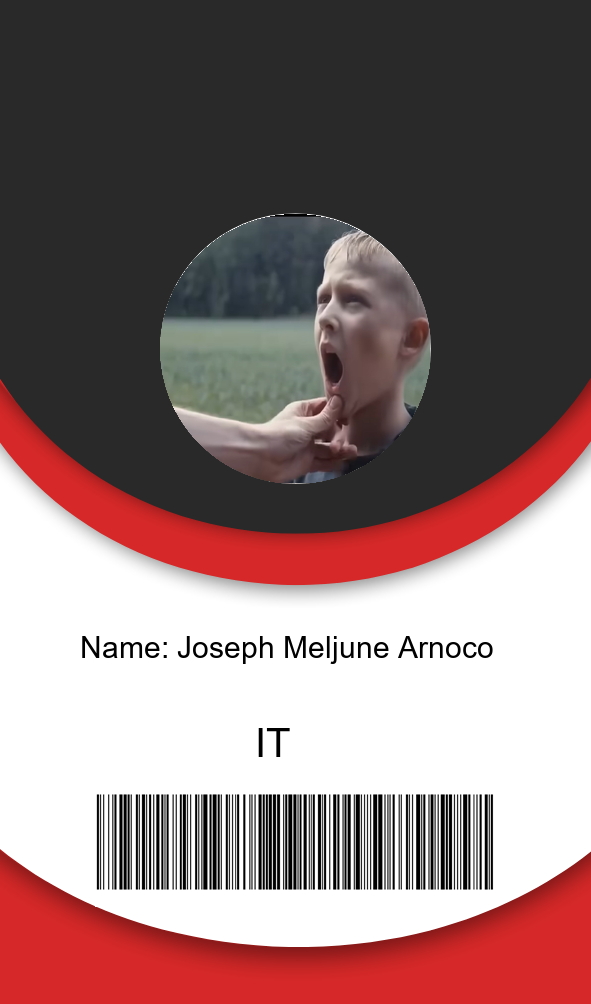
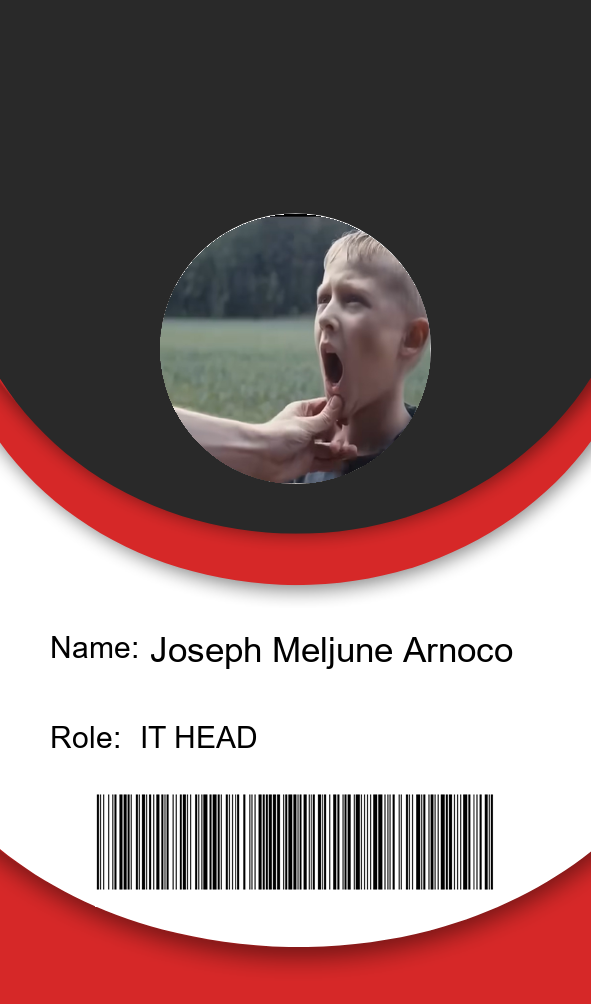
id gen

Changed region(s): [[0.0914, 0.6175, 0.8528, 0.6793], [0.2437, 0.7102, 0.4873, 0.7719], [0.0914, 0.7102, 0.1827, 0.741]]

diff --git a/Server/generateEmployeeID.py b/Server/generateEmployeeID.py
@@ -122,30 +122,29 @@ class EmployeeIDCard(BaseModel):
             except Exception as e:
                 print(f"Error loading photo: {e}")
 
-        if len(name) > 10:
-            name_font = ImageFont.truetype(font_path, size=30)
-            # name = textwrap.fill(name, width=30)
-            x_text = 80
-        else:
-            x_text = 50
-            name_font = ImageFont.truetype(font_path, size=40)
+        draw.text((50, 630), f"Name:", fill="black", font=ImageFont.truetype(font_path, size=30))
+
+        name_font = ImageFont.truetype(font_path, size=35)
+        # name = textwrap.fill(name, width=30)
+        x_text = 140
 
         name_lines = textwrap.wrap(name, width=35)
         y_text = 630
+
         for line in name_lines:
-            draw.text((x_text, y_text), f"Name: {line}", fill="black", font=name_font)
+            draw.text((x_text, y_text), f" {line}", fill="black", font=name_font)
             y_text += name_font.size + 5
 
-        if len(type_of_employee) > 3:
-            x_text = 210
-        else:
-            x_text = 255
+
+        draw.text((50, 720), f"Role:", fill="black", font=ImageFont.truetype(font_path, size=30))
+
+        role_font = ImageFont.truetype(font_path, size=30)
+        x_text = 140
 
         type_of_employee_lines = textwrap.wrap(type_of_employee, width=35)
         y_text = 720
         for line in type_of_employee_lines:
             draw.text((x_text, y_text), line, fill="black", font=role_font)
-            y_text += role_font.size + 5
         # draw.text((255, 620), f"{type_of_employee}", fill="black", font=role_font)
 
         # ref_id_font = ImageFont.truetype(font_path, size=25)
@@ -171,6 +170,8 @@ class EmployeeIDCard(BaseModel):
         #     (170, 170))
         # background.paste(qr_code_img, (215, 680))
 
+        draw.text((130, 955), f"Property of Pustanan Printers. ©", fill="white", font=ImageFont.truetype(font_path, size=25))
+
         barcode = Code128(ref_id, writer=ImageWriter())
         options = {
             'module_width': 0.5,
@@ -182,9 +183,9 @@ class EmployeeIDCard(BaseModel):
             'foreground': 'black',
             'write_text': False
         }
-        barcode.save("Server/IDBarcodes/"+f"{name}", options=options)
+        barcode.save("Server/IDBarcodes/"+f"{name}")
         barcode_img = Image.open(f"Server/IDBarcodes/{name}.png").resize((400, 130))
-        background.paste(barcode_img, (95, 777))
+        background.paste(barcode_img, (95, 800))
 
         directory = 'Server/EmployeeIDs/'
         if not os.path.exists(directory):
@@ -196,34 +197,34 @@ class EmployeeIDCard(BaseModel):
         background.save(output_path)
         print(f"ID card saved to {output_path}")
 
-        # if not _apps:
-        #     cred = credentials.Certificate(
-        #         "Server/pustananemployeeprofile-firebase-adminsdk-47jwz-bc5daaacc7.json"
-        #     )
-        #     initialize_app(cred, {
-        #         "storageBucket":
-        #         "pustananemployeeprofile.firebasestorage.app"
-        #     })
+        if not _apps:
+            cred = credentials.Certificate(
+                "Server/pustananemployeeprofile-firebase-adminsdk-47jwz-bc5daaacc7.json"
+            )
+            initialize_app(cred, {
+                "storageBucket":
+                "pustananemployeeprofile.firebasestorage.app"
+            })
 
-        # bucket = storage.bucket()
-        # blob = bucket.blob(
-        #     f"EmployeeIDs/{self.firstName+self.lastName}_id_card.png")
-        # blob.upload_from_filename(output_path)
-        # blob.make_public()
+        bucket = storage.bucket()
+        blob = bucket.blob(
+            f"EmployeeIDs/{self.firstName+self.lastName}_id_card.png")
+        blob.upload_from_filename(output_path)
+        blob.make_public()
 
-        # download_url = blob.public_url
-        # print(f"ID card uploaded to Firebase Storage" + download_url)
+        download_url = blob.public_url
+        print(f"ID card uploaded to Firebase Storage" + download_url)
 
-        # to_return = {
-        #     "_id": self.id,
-        #     "name": self.firstName + " " + self.lastName,
-        #     "companyRole": self.companyRole,
-        #     "IDCardURL": download_url,
-        # }
+        to_return = {
+            "_id": self.id,
+            "name": self.firstName + " " + self.lastName,
+            "companyRole": self.companyRole,
+            "IDCardURL": download_url,
+        }
 
-        # print(to_return)
+        print(to_return)
 
-        # return to_return
+        return to_return
 
         # back side of ID card
 
@@ -256,8 +257,8 @@ class EmployeeIDCard(BaseModel):
 
 employee = {
     "_id": 'BPi81fLbqzianOUXm2KDZTvrxhioRr5r',
-    "firstName": "Joseph Meljune",
-    "lastName": "Arnoco",
+    "firstName": "Val",
+    "lastName": "Letigio",
     "address": "123 Main Street, Cebu City, Philippines",
     "phoneNumber": "+63 912 345 6789",
     "photoOfPerson": "server/test_assets/minor.png",
@@ -267,7 +268,7 @@ employee = {
     "dateJoined": datetime(2024, 1, 15).date(),
     "company": "PPC",
     "isRegular": False,
-    "companyRole": "IT",
+    "companyRole": "IT HEAD",
     "isOJT": True,
     "dailyWage": 800.50,
     "_version": 1,
